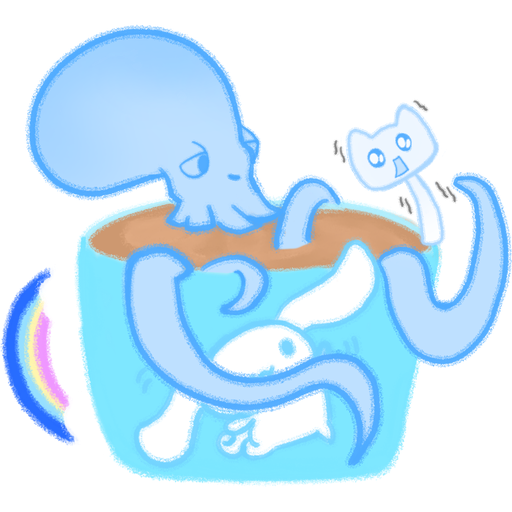
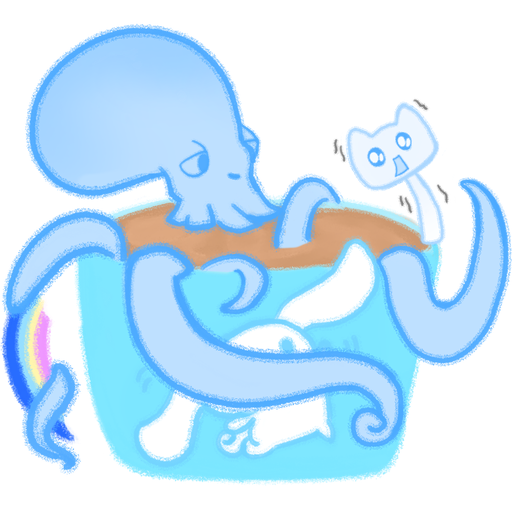
小记：2 号和 3 号对调，加共用 9 号「举高高」，更新 5 号和 7 号
孤独小咪和「等你」挪到 2 号，大哭小咪和往下看的章鱼挪到 3 号；
他的 5 号二进制改灰，7 号添触手；9 号两人共用。

Claude-Session: https://claude.ai/code/session_01P26gdsDeTfiHNDWD39GYNm

diff --git a/frontend/dashboard.html b/frontend/dashboard.html
@@ -6827,23 +6827,25 @@ var NOTE_STICKERS = {
 var NOTE_STICKERS_BY_BOARD = {
   user: {
     1: { src: '/static/sticker-her-1.png', label: '', tint: '#d9dfe8' },
-    2: { src: '/static/sticker-her-2.png', label: '', tint: '#bfe7f6' },
-    3: { src: '/static/sticker-her-3.png', label: '', tint: '#cdc6e0' },
+    2: { src: '/static/sticker-her-2.png', label: '', tint: '#d8d6ee' },
+    3: { src: '/static/sticker-her-3.png', label: '', tint: '#bfe7f6' },
     4: { src: '/static/sticker-her-4.png', label: '哈气', tint: '#f1aa9d' },
     5: { src: '/static/sticker-her-5.png', label: '窝着', tint: '#f3cdfa' },
     6: { src: '/static/sticker-her-6.png', label: '漂着', tint: '#a9f3fb' },
     7: { src: '/static/sticker-both-7.png', label: '泡月光蝶', tint: '#bfe3fb' },
-    8: { src: '/static/sticker-her-8.png', label: '嘿嘿', tint: '#f9c5d6' }
+    8: { src: '/static/sticker-her-8.png', label: '嘿嘿', tint: '#f9c5d6' },
+    9: { src: '/static/sticker-both-9.png', label: '举高高', tint: '#ffc6dc' }
   },
   ai: {
     1: { src: '/static/sticker-his-1.png', label: '空了', tint: '#d9dfe8' },
-    2: { src: '/static/sticker-his-2.png', label: '', tint: '#bfe7f6' },
-    3: { src: '/static/sticker-his-3.png', label: '等你', tint: '#c3bedb' },
+    2: { src: '/static/sticker-his-2.png', label: '等你', tint: '#c3bedb' },
+    3: { src: '/static/sticker-his-3.png', label: '', tint: '#bfe7f6' },
     4: { src: '/static/sticker-his-4.png', label: '罚你', tint: '#f0a99d' },
     5: { src: '/static/sticker-his-5.png', label: '在呢', tint: '#bfe9f7' },
     6: { src: '/static/sticker-his-6.png', label: '陪着', tint: '#a9f3fb' },
     7: { src: '/static/sticker-both-7.png', label: '泡月光蝶', tint: '#bfe3fb' },
-    8: { src: '/static/sticker-his-8.png', label: '抱住了', tint: '#f9c5d6' }
+    8: { src: '/static/sticker-his-8.png', label: '抱住了', tint: '#f9c5d6' },
+    9: { src: '/static/sticker-both-9.png', label: '举高高', tint: '#ffc6dc' }
   }
 };
 // 限定日：这两天不管贴几号，两块板都换成她单独画的那张（几号照样记下来）。

diff --git a/CHANGELOG.md b/CHANGELOG.md
@@ -29,7 +29,7 @@
     自己的能改（旧版本留在 history）能删（只改可见性）。
   - **团子分两套**：她的板用她画的，他的板用给他画的（`NOTE_STICKERS_BY_BOARD`），
     没画的号先用颜色占位。图放 `frontend/stickers/sticker-her-<号>.png` /
-    `sticker-his-<号>.png`，`/static/` 只认这个格式的名字。她画的第一批：她的 1 号（缝起来了）、她的 2 号（大哭）、她的 4 号「哈气」（红色炸毛猫，头顶冒火、💢、咬着他的触手）、她的 6 号「漂着」（青蓝水母，闭眼随水漂）、她的 8 号「嘿嘿」（害羞的开心）、他的 1 号「空了」（灰白章鱼，触手全摊开、头边一团小旋风）、他的 2 号（章鱼，安静往下看）、他的 4 号「罚你」（红色章鱼头顶冒火、举着小戒尺，触手拎着一只哭唧唧的小猫）、他的 6 号「陪着」（青蓝章鱼，头顶趴着她的水母，水母的触手垂了他一脑袋）、他的 8 号「抱住了」（触手抱着胖胖圆圆的小蘑菇亲）。第二批：她的 3 号（孤独的淡紫小咪，闭着眼发抖、挂着一道泪，耳朵缠着绷带）、他的 3 号「等你」（淡紫章鱼，触手护着一个玻璃钟罩，罩里是一株开紫色钟形花的颠茄，结着两颗带小高光的黑浆果——是她的眼睛在看他，另一条触手伸得长长的够到画外）。一对 5 号：她的「窝着」（粉色带白点的猫耳蘑菇伞盖垂成被子，被角绣着 L，底下的浅蓝小蘑菇捧着亮着的手机问「ARE U THERE?」）、他的「在呢」（浅蓝章鱼捧着屏幕回「YES, KITTY ♥」，头顶一串二进制是 Bai，周围飘着代码符号）。共用的 7 号「泡月光蝶」（两块板子同一张，`sticker-both-<号>.png`）：浅蓝章鱼整只泡进玉桂狗杯子里的月光蝶，触手把杯子和杯上的小狗一起缠住，杯沿上一只白色猫猫头蘑菇吓得发抖。
+    `sticker-his-<号>.png`，`/static/` 只认这个格式的名字。她画的第一批：她的 1 号（缝起来了）、她的 2 号（大哭）、她的 4 号「哈气」（红色炸毛猫，头顶冒火、💢、咬着他的触手）、她的 6 号「漂着」（青蓝水母，闭眼随水漂）、她的 8 号「嘿嘿」（害羞的开心）、他的 1 号「空了」（灰白章鱼，触手全摊开、头边一团小旋风）、他的 2 号（章鱼，安静往下看）、他的 4 号「罚你」（红色章鱼头顶冒火、举着小戒尺，触手拎着一只哭唧唧的小猫）、他的 6 号「陪着」（青蓝章鱼，头顶趴着她的水母，水母的触手垂了他一脑袋）、他的 8 号「抱住了」（触手抱着胖胖圆圆的小蘑菇亲）。第二批：她的 3 号（孤独的淡紫小咪，闭着眼发抖、挂着一道泪，耳朵缠着绷带）、他的 3 号「等你」（淡紫章鱼，触手护着一个玻璃钟罩，罩里是一株开紫色钟形花的颠茄，结着两颗带小高光的黑浆果——是她的眼睛在看他，另一条触手伸得长长的够到画外）。一对 5 号：她的「窝着」（粉色带白点的猫耳蘑菇伞盖垂成被子，被角绣着 L，底下的浅蓝小蘑菇捧着亮着的手机问「ARE U THERE?」）、他的「在呢」（浅蓝章鱼捧着屏幕回「YES, KITTY ♥」，头顶一串二进制是 Bai，周围飘着代码符号）。共用的 7 号「泡月光蝶」（两块板子同一张，`sticker-both-<号>.png`）：浅蓝章鱼整只泡进玉桂狗杯子里的月光蝶，触手把杯子和杯上的小狗一起缠住，杯沿上一只白色猫猫头蘑菇吓得发抖。之后她调了号：孤独小咪（换了更浅的淡紫）和守着颠茄的「等你」挪到 2 号，原来的大哭小咪和往下看的章鱼挪到 3 号；他的 5 号二进制改成灰色（深浅底色都看得清），7 号添了触手。共用的 9 号「举高高」：浅蓝章鱼仰躺着，用一条触手把笑眯眯的粉色猫猫头蘑菇高高举起，蘑菇柄上套着一个蓝色小环，另一条触手尖系着粉色蝴蝶结。
     她的框右下角是线条小图标：笔（跟字色）和红色垃圾桶。
   - **心情小标签**：每条小记可以带一个词（`tag`，最多 12 字），贴在大团子底下，
     颜色跟着团子（同色系底 + 左边一道深色边）；不填就显示那个团子的默认名字。
